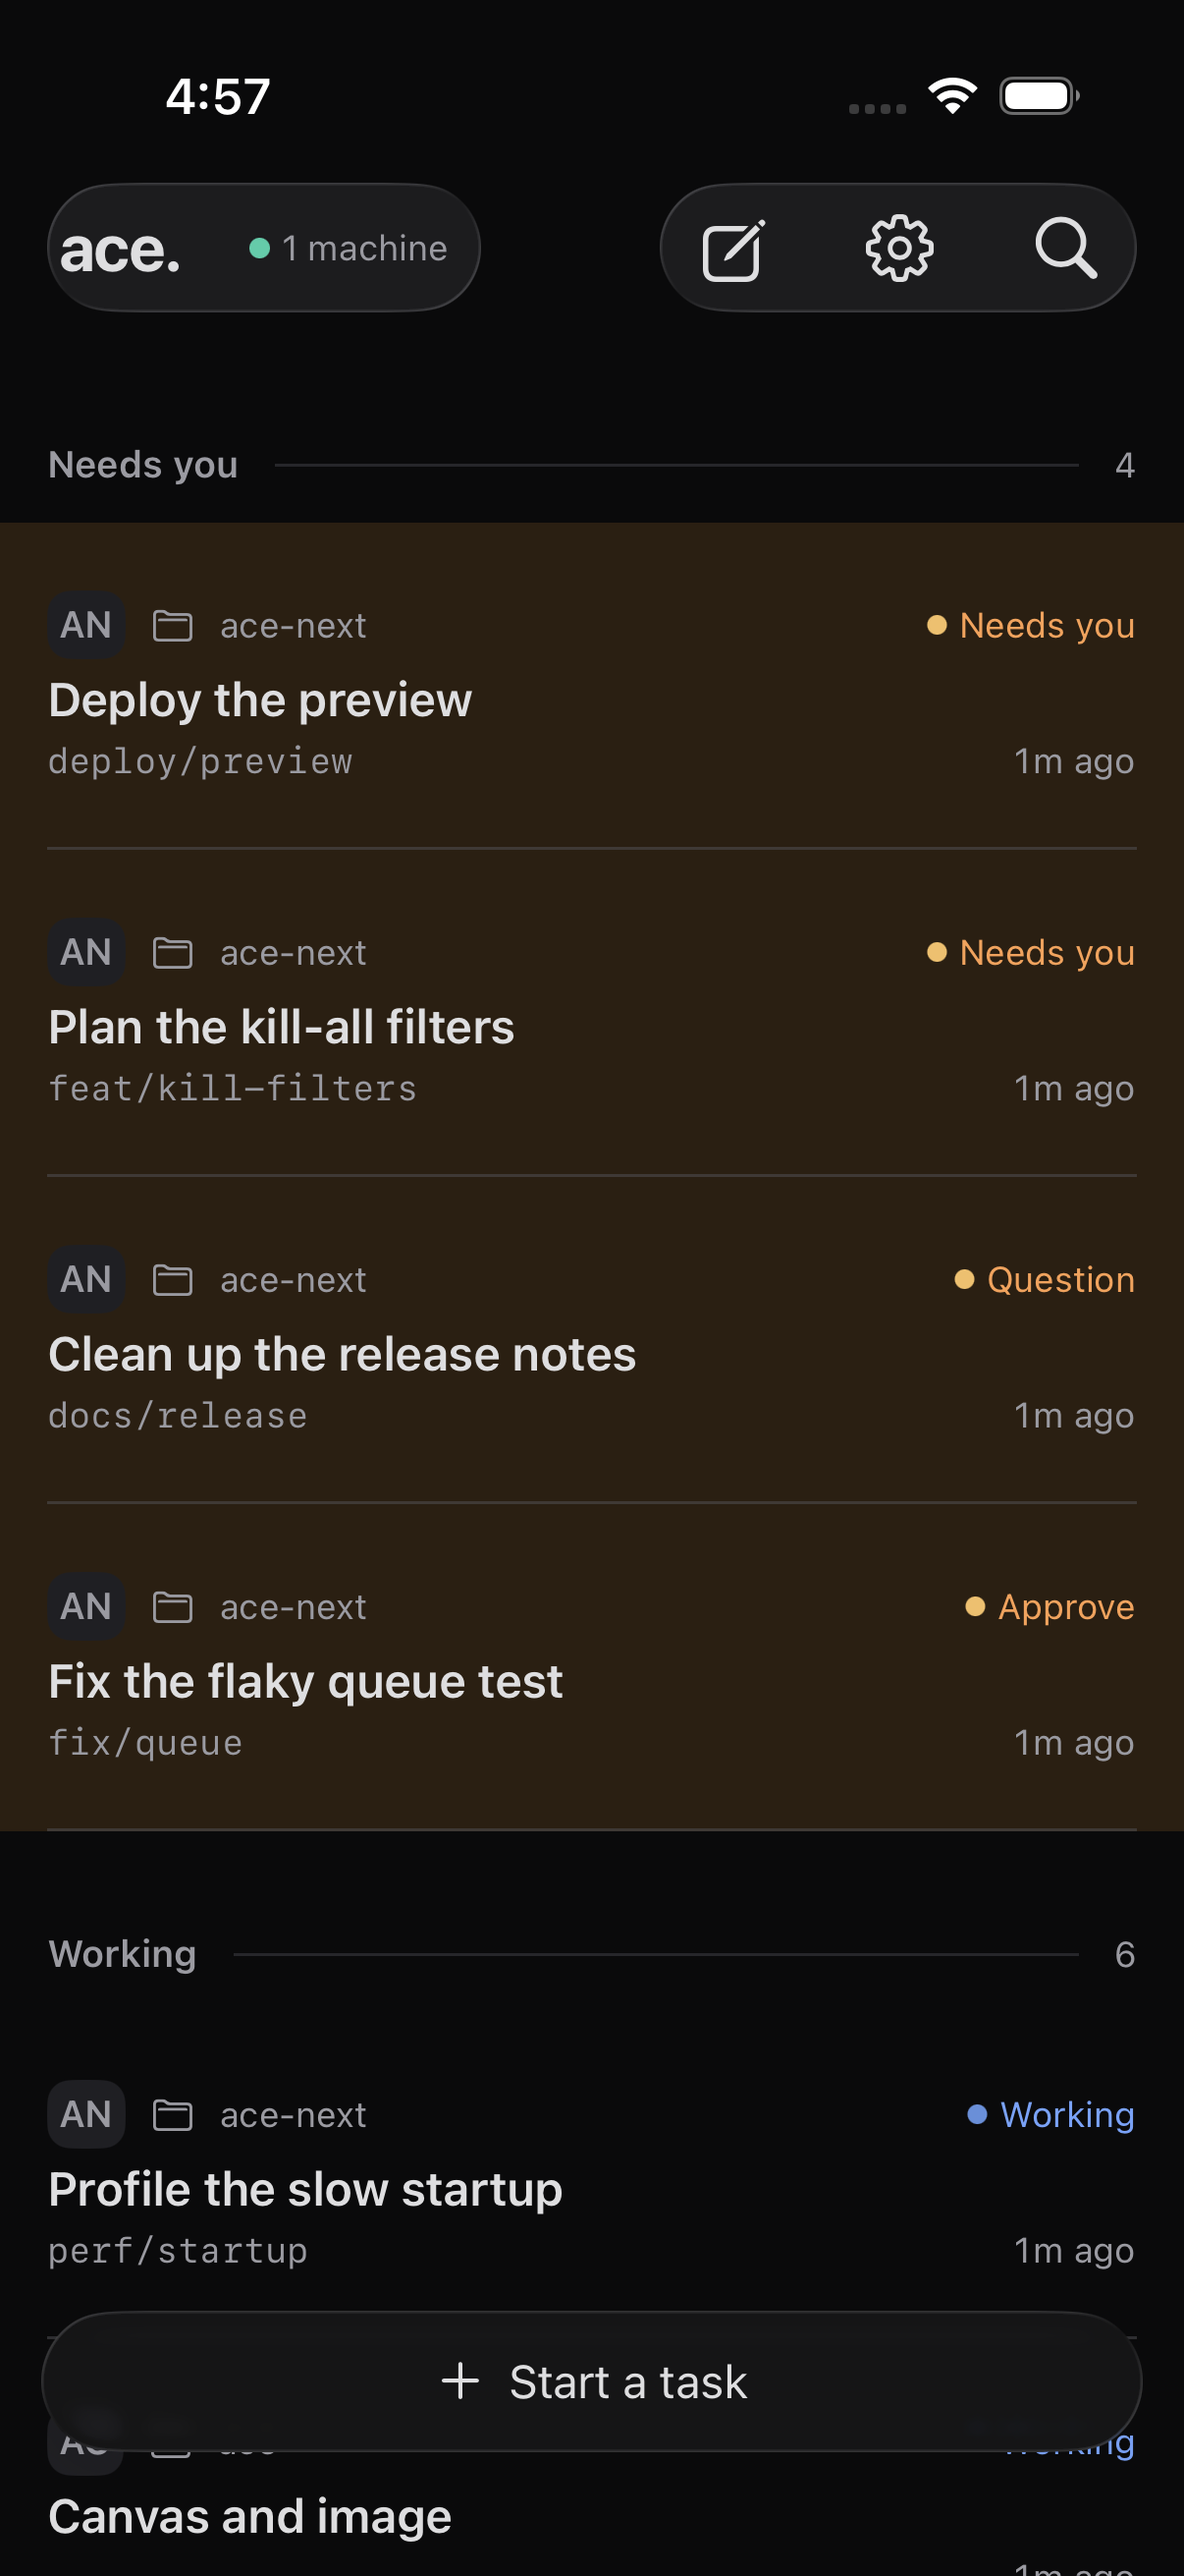
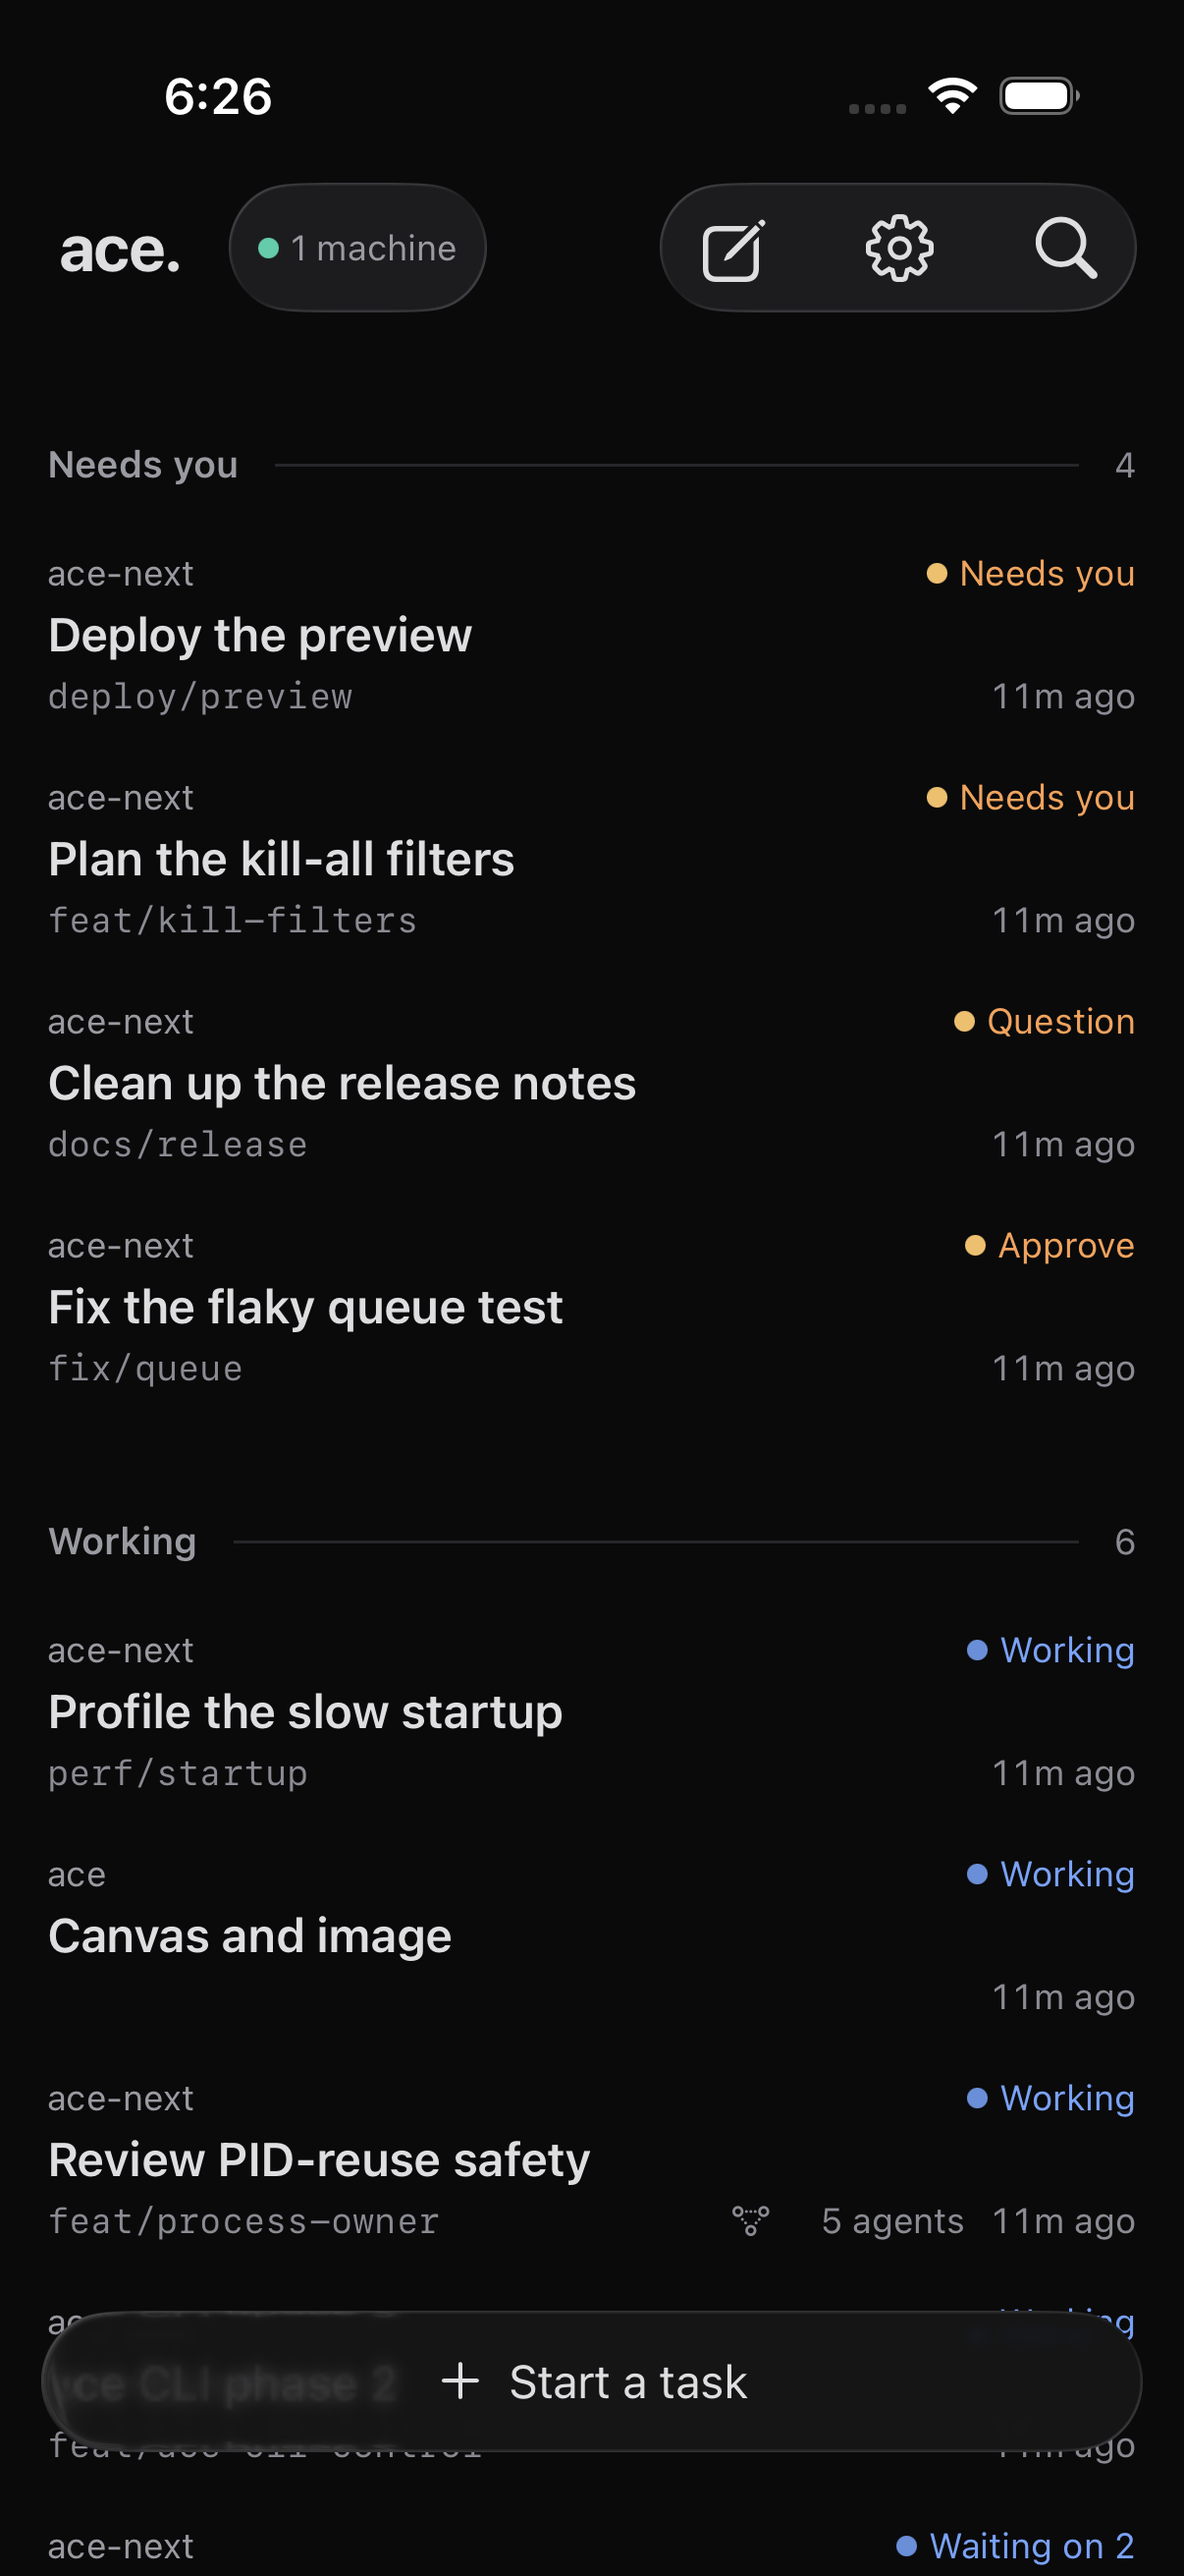
docs(ios): refresh simulator evidence for phone layouts

diff --git a/docs/verification/ios-emulator-parity/README.md b/docs/verification/ios-emulator-parity/README.md
@@ -7,9 +7,9 @@ No provider sessions or recorder runs were used.
 
 ## Changes
 
-- Canonical inbox labels distinguish questions, approvals and child waits. Project
-  badges, a visible thread header, file-count chips and native tool shortcuts are
-  available. Completed-test chips still need authoritative result metadata.
+- Canonical inbox labels distinguish questions, approvals and child waits. Quiet
+  project metadata, a compact thread header, file-count chips and native tool
+  shortcuts are available. Completed-test chips still need authoritative result metadata.
 - Machine screens use the selected SDK connection for preferences, usage, prompt
   files, provider sign-in and automations. Sign-in handles the CLI's Enter prompt.
   Cron edits preserve expression, time zone and schedule anchor. Phone profiles
@@ -38,6 +38,28 @@ No provider sessions or recorder runs were used.
 
 [ADR 0089](../../adr/0089-ios-native-tools-and-local-activities.md) records the service
 boundary, local activity decision and limits.
+
+## Phone layout cleanup
+
+The inbox uses flat rows with one project label, quieter branch metadata and no
+section-wide status tint. The wordmark has no control background. View-only
+machines hide both task entries, and their notice is a single short label.
+
+Thread title and canonical status share the navigation bar, with Agents and the
+options menu beside them. Changes and Terminal remain in that menu. At
+accessibility sizes, status moves below the bar so it can expand. The read-only
+footer is opaque, and transcript rows use the phone palette consistently.
+
+The model picker has its own row above the message field. Attachment and tuning
+errors sit below their controls. Delegated completion uses a compact count on
+both delivery paths, preserving failed and cancelled outcomes without showing
+machine input as a user message.
+
+Five simulator UI cases passed for inbox/thread rendering, the keyboard,
+Terminal, Agents and Changes. The final spacing pass is verified by the focused
+inbox/keyboard rerun below. Sixteen shared/bridge delegation tests passed. Source
+review found no remaining layout or access issues. Large-text layout was reviewed
+in source; this pass does not claim a fresh large-text runtime audit.
 
 ## Verification
 
